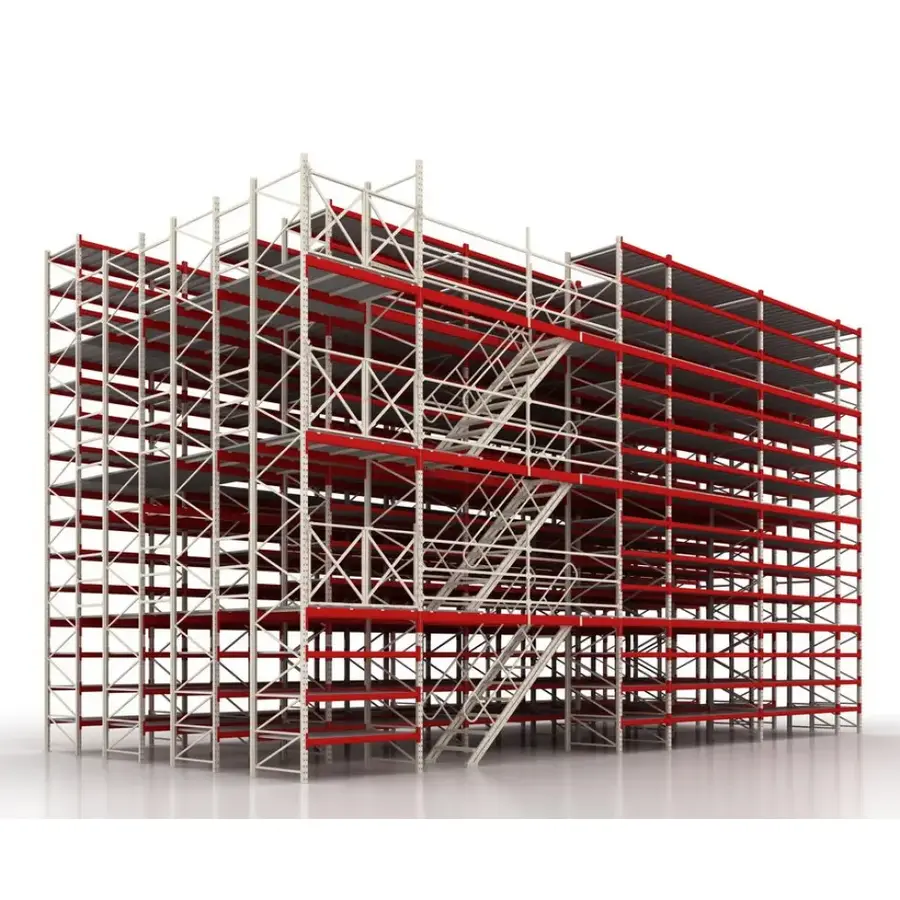
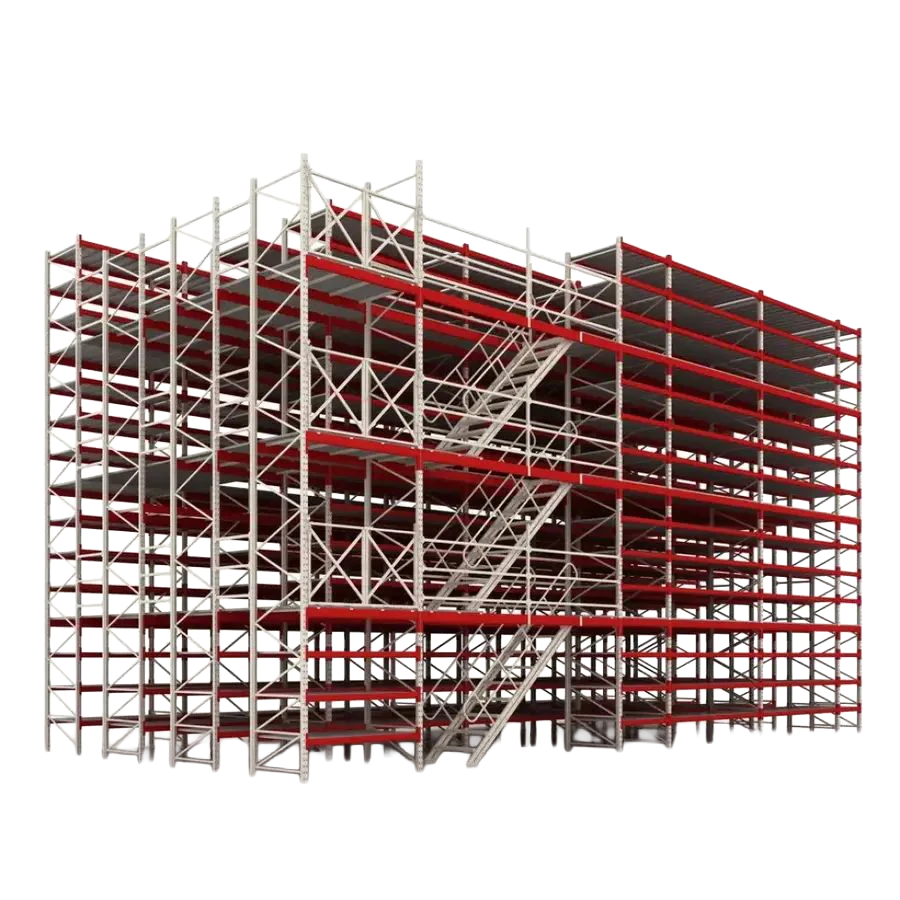
Каталог: заменил hero-фото на паллетных и мезонинных стеллажах (новые рендеры)

Changed region(s): [[0.0, 0.7778, 1.0, 0.9333]]

diff --git a/stellazhi-mezoninnye.html b/stellazhi-mezoninnye.html
@@ -134,7 +134,7 @@
           </div>
         </div>
         <figure class="page-hero-media page-hero-media--product reveal">
-          <img src="assets/catalog/mezonin-hero.webp" alt="Мезонинная стеллажная система NASTEEL в несколько ярусов с лестницей" width="900" height="900" decoding="async">
+          <img src="assets/catalog/mezonin-hero.webp?v=2" alt="Мезонинная стеллажная система NASTEEL в несколько ярусов с лестницей" width="900" height="900" decoding="async">
         </figure>
       </div>
       <div class="page-stats" aria-label="Показатели завода">

diff --git a/stellazhi-palletnye.html b/stellazhi-palletnye.html
@@ -134,7 +134,7 @@
           </div>
         </div>
         <figure class="page-hero-media page-hero-media--product reveal">
-          <img src="assets/catalog/palletnye-hero.webp" alt="Паллетные фронтальные стеллажи NASTEEL с поддонами и коробками" width="894" height="596" decoding="async">
+          <img src="assets/catalog/palletnye-hero.webp?v=3" alt="Паллетные фронтальные стеллажи NASTEEL с поддонами и коробками" width="894" height="596" decoding="async">
         </figure>
       </div>
       <div class="page-stats" aria-label="Показатели завода">
